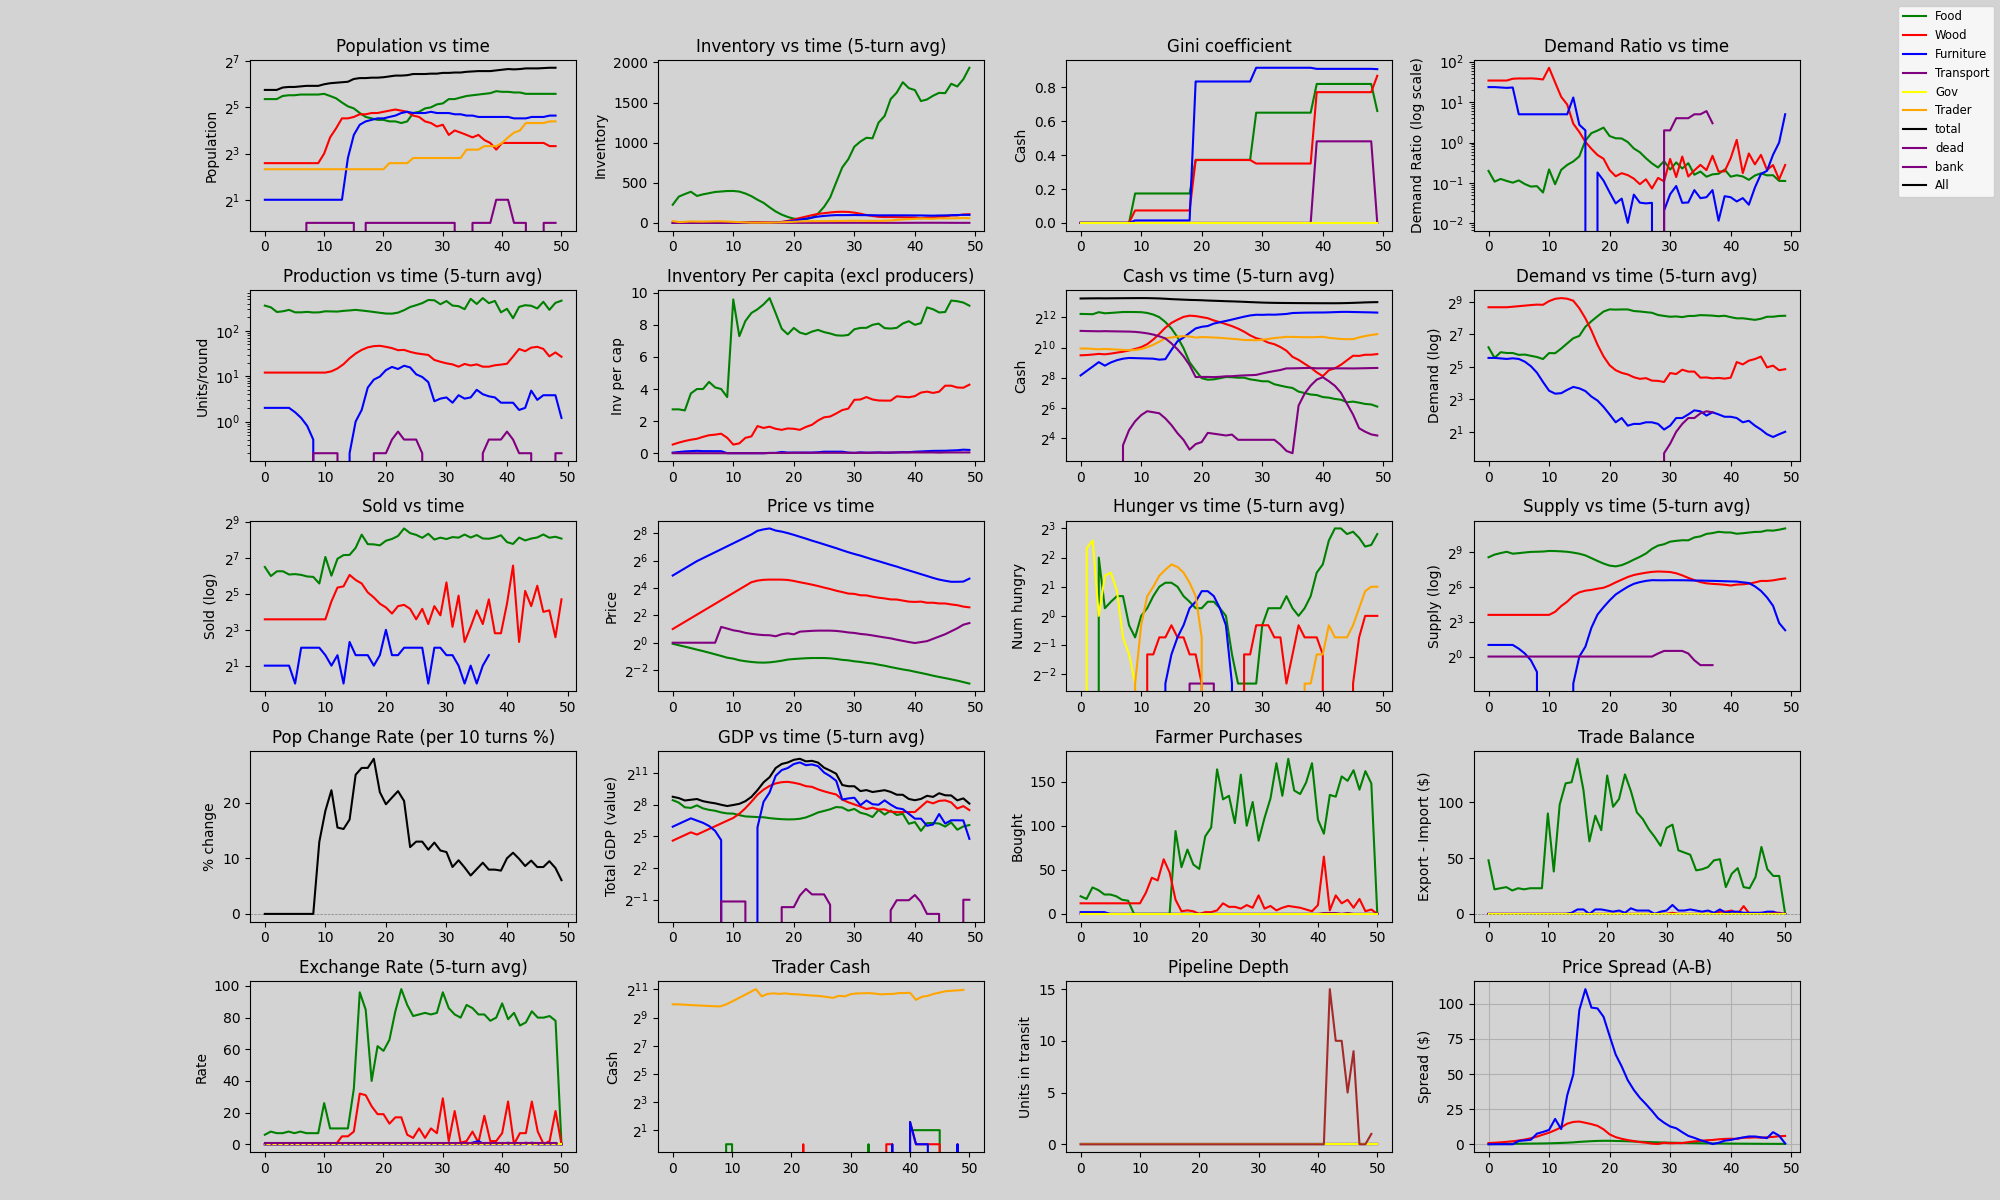
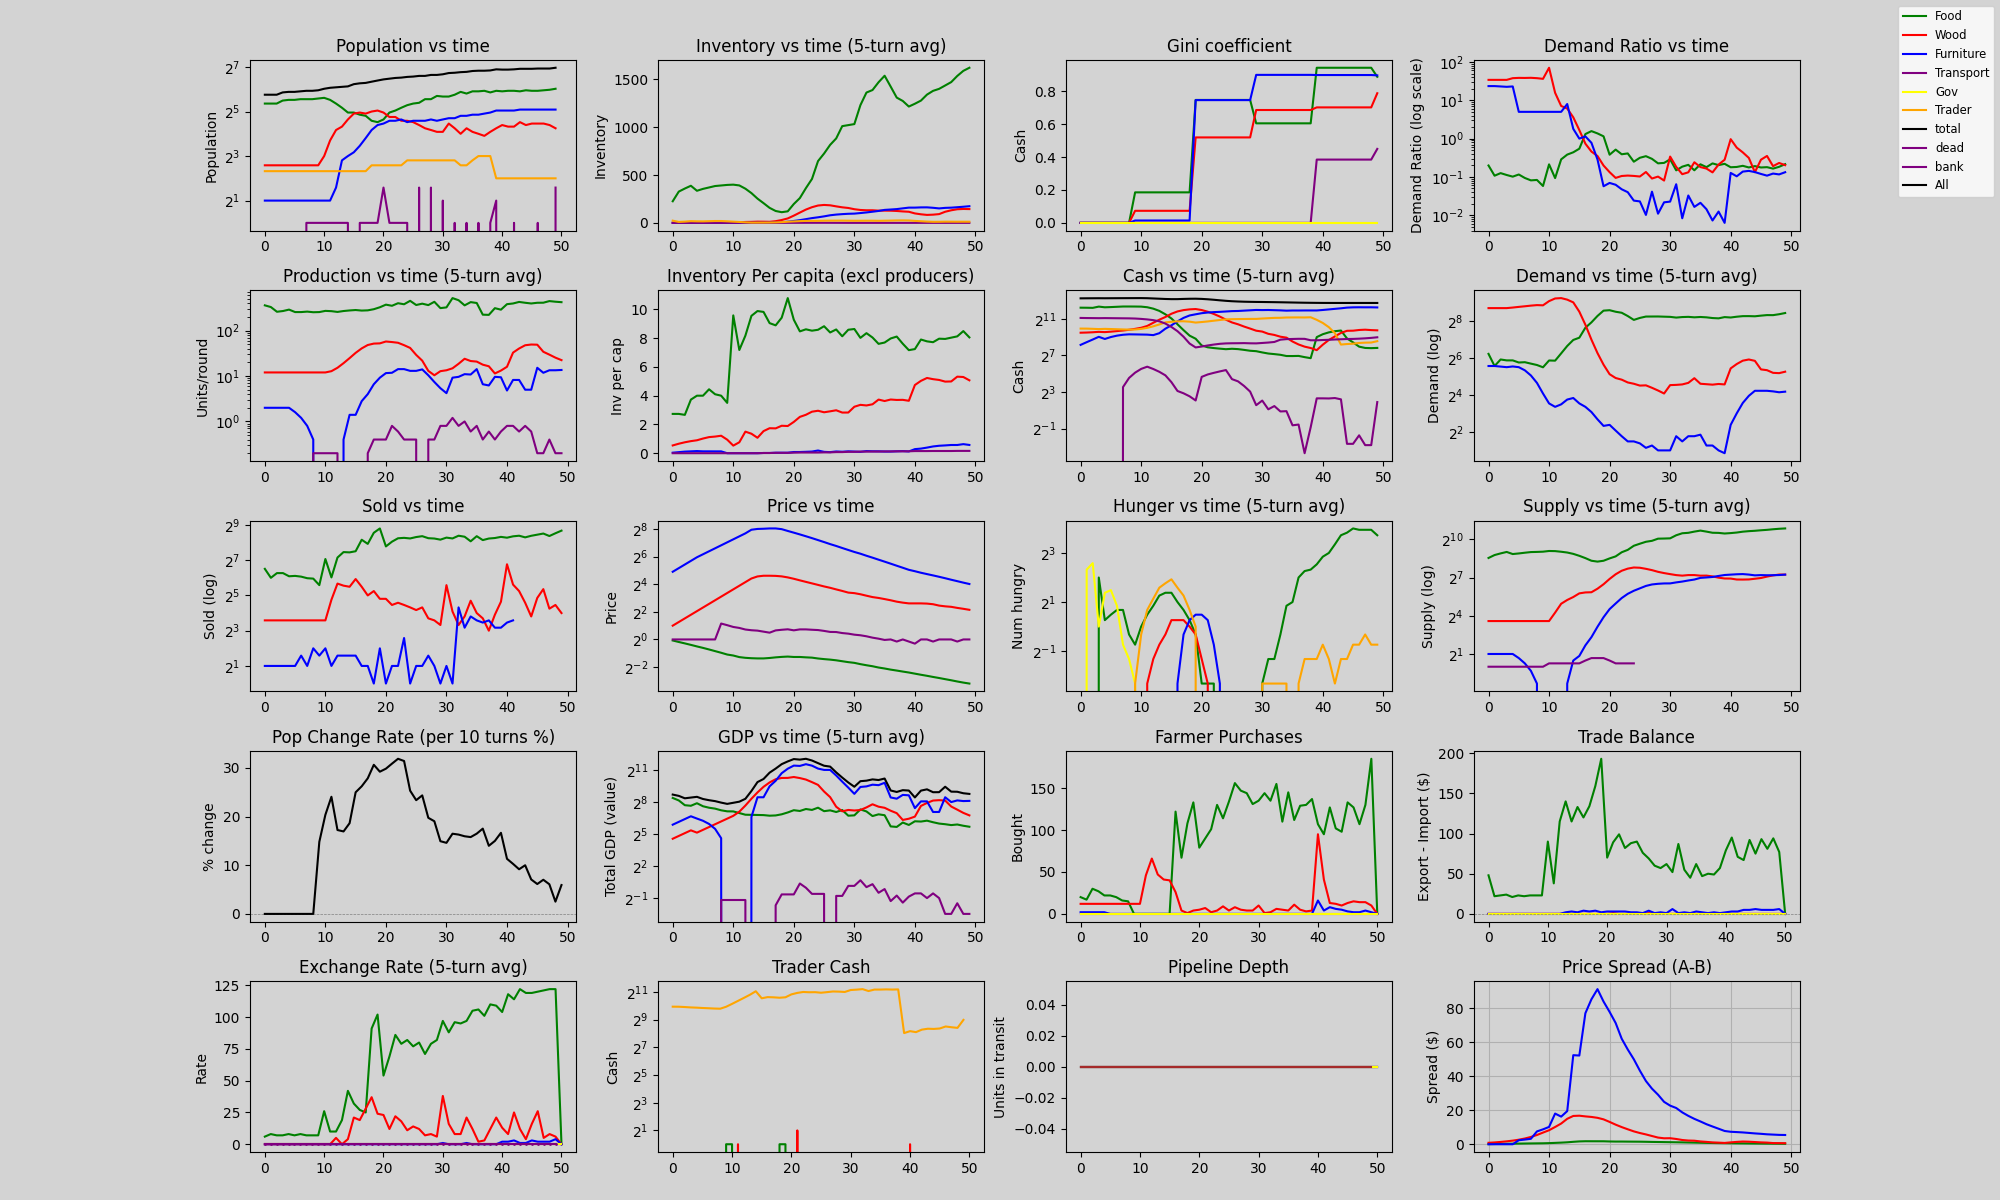
Last-of-profession invulnerability: sole producer of any good cannot die
- _is_last_of_profession checks if agent is the only alive non-trader producer
- Applies to Food, Wood, Furniture, Transport producers
- Does NOT apply to traders, corporations, government agents, or gov output
- Prevents profession extinction from unlucky death chains

diff --git a/econsim_live.py b/econsim_live.py
@@ -426,6 +426,20 @@ def _handle_reproduction(ctx: LiveContext, t, agent, agents, new_agents):
 # DEATH
 # =============================================================================
 
+def _is_last_of_profession(agent, agents, ctx):
+    """Return True if agent is the sole producer of their profession.
+    
+    Does not apply to traders, corporations, government agents, or gov output.
+    """
+    if agent.is_trader or agent.is_corporation or agent.is_government:
+        return False
+    output = agent.output
+    if output == Goods.gov:
+        return False
+    count = sum(1 for a in agents if a.alive and a.output == output and not a.is_trader)
+    return count <= 1
+
+
 def _handle_death(ctx: LiveContext, t, agent, agents):
     """Determine if agent dies (starvation or old age). Clean up assets."""
     if agent.hungry_steps < ctx.starve_limit:
@@ -470,6 +484,10 @@ def _handle_death(ctx: LiveContext, t, agent, agents):
             overage = current_pop - threshold
             crowding_factor = 1.0 + (overage / (ctx.carrying_capacity * 0.15)) * 4.0
             adjusted_prob *= crowding_factor
+        # Last-of-profession safety net: the final producer of any good
+        # (excluding gov) cannot die — prevents profession extinction.
+        if _is_last_of_profession(agent, agents, ctx):
+            return False
         if rand.random() > adjusted_prob:
             return False  # survived
         agent.alive = False
